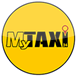
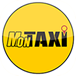
Name Change + Up to v1.2.6 + Ban System

Changed region(s): [[0.0, 0.0, 1.0, 1.0]]

diff --git a/index.html b/index.html
@@ -3,7 +3,7 @@
     <head>
     <meta http-equiv="Content-Type" content="text/html; charset=utf-8" />
     <meta http-equiv="CONTENT-LANGUAGE" content="French">
-    <title>My Taxi 34 Pro by Taxi Global Services</title>
+    <title>MonTaxi 34 Pro by Taxi Global Services</title>
     <link rel="apple-touch-icon" href="visuels/idev.favicon.png"/>
     <meta name="viewport" content="width=device-width, user-scalable=no, initial-scale=1, minimum-scale=1, maximum-scale=1"/>
     <!-- <meta name="viewport" content="width=device-width, height=device-height, user-scalable=yes, initial-scale=1"/> -->
@@ -101,6 +101,16 @@
 			{
 				$.mobile.pageContainer.pagecontainer("change", "#connect", { transition: "slide"} );
 			}
+			else {
+				$.post("https://www.mytaxiserver.com/taxioffsrv/blacklist.php", { userid: operator}, function(data) {
+					if (data.banned == 1)
+					{
+						$.mobile.pageContainer.pagecontainer("change", "#subscription", { transition: "slide"} );
+						var displayThis = '<p style="color:red;"><b>Votre compte &agrave; &eacute;t&eacute; banni pour cause d&rsquo;utilisation abusive, d&eacute;sol&eacute;.<br>Vous pouvez nous contacter pour toute r&eacute;clamation: </b></p><center><a href="mailto:info@taximedia.fr" class="ui-btn ui-btn-icon-left ui-icon-mail ui-btn-inline">Courriel</a><a href="tel:0413598022" class="ui-btn ui-btn-icon-left ui-icon-phone ui-btn-inline">T&eacute;l&eacute;phone</a></center>';
+						$("#subReturns").empty().append(displayThis);
+					}
+				}, "json");
+			}
 			if((navigator.network.connection.type == Connection.NONE) || !window.jQuery){
 				$("body").empty().append('<img src="no_network.png" width="'+screen.width+'" height="'+screen.height+'" onClick="window.location.reload()" />');
 			}
@@ -114,7 +124,7 @@
 		function onBackKeyDown() {
 			//history.back();
 			//changePage('#infos');
-			navigator.notification.alert('Veuillez ne pas quitter myTaxi pendant la recheche de taxi disponibles');
+			navigator.notification.alert('Veuillez ne pas quitter monTaxi pendant la recheche de taxi disponibles');
 		}
 		function onResume() {
 			if((navigator.network.connection.type == Connection.NONE) || !window.jQuery){
@@ -186,7 +196,7 @@
 			setTimeout(function(){
 				//navigator.notification.alert(result.name + " " + result.phoneNumber);
 				var number = result.phoneNumber;
-				var message = "Téléchargez l'app myTaxi 34 en suivant ce lien : http://www.taximedia.fr/stores.php?app=mytaxi&dep=34";
+				var message = "Téléchargez l'app monTaxi 34 en suivant ce lien : http://www.taximedia.fr/stores.php?app=mytaxi&dep=34";
 				var intent = ""; //leave empty for sending sms using default intent
 				var success = function () {
 					//navigator.notification.alert('Message sent successfully');
@@ -674,6 +684,16 @@
 			if($.localStorage.getItem('registeredUser') != 1)
 			{
 				$.mobile.pageContainer.pagecontainer("change", "#connect", { transition: "slide"} );
+			}
+			else {
+				$.post("https://www.mytaxiserver.com/taxioffsrv/blacklist.php", { userid: operator}, function(data) {
+					if (data.banned == 1)
+					{
+						$.mobile.pageContainer.pagecontainer("change", "#subscription", { transition: "slide"} );
+						var displayThis = '<p style="color:red;"><b>Votre compte &agrave; &eacute;t&eacute; banni pour cause d&rsquo;utilisation abusive, d&eacute;sol&eacute;.<br>Vous pouvez nous contacter pour toute r&eacute;clamation: </b></p><center><a href="mailto:info@taximedia.fr" class="ui-btn ui-btn-icon-left ui-icon-mail ui-btn-inline">Courriel</a><a href="tel:0413598022" class="ui-btn ui-btn-icon-left ui-icon-phone ui-btn-inline">T&eacute;l&eacute;phone</a></center>';
+						$("#subReturns").empty().append(displayThis);
+					}
+				}, "json");
 			}
 			locateMe();
 			$('.noAppHide').each(function () {
@@ -1500,7 +1520,7 @@
             <div class="ui-bar-b ui-corner-all ui-shadow" style="padding:1em; display:block;">
             	<center>
                 <img src="visuels/logo.png" width="60%" style="max-width:252px"/>
-                <p><b><br><br>Votre demande a &eacute;t&eacute; prise en compte, votre taxi prendra contact avec vous par t&eacute;l&eacute;phone ou sms.<br><br>Toute l&rsquo;&eacute;quipe myTaxi 34 vous remercie.</b></p>
+                <p><b><br><br>Votre demande a &eacute;t&eacute; prise en compte, votre taxi prendra contact avec vous par t&eacute;l&eacute;phone ou sms.<br><br>Toute l&rsquo;&eacute;quipe monTaxi 34 vous remercie.</b></p>
                 <button class="ui-btn ui-corner-all ui-shadow ui-btn-b ui-btn-icon-left ui-icon-edit" onClick="goback('index.html')">Retour</button>
                 </center>
             </div>
